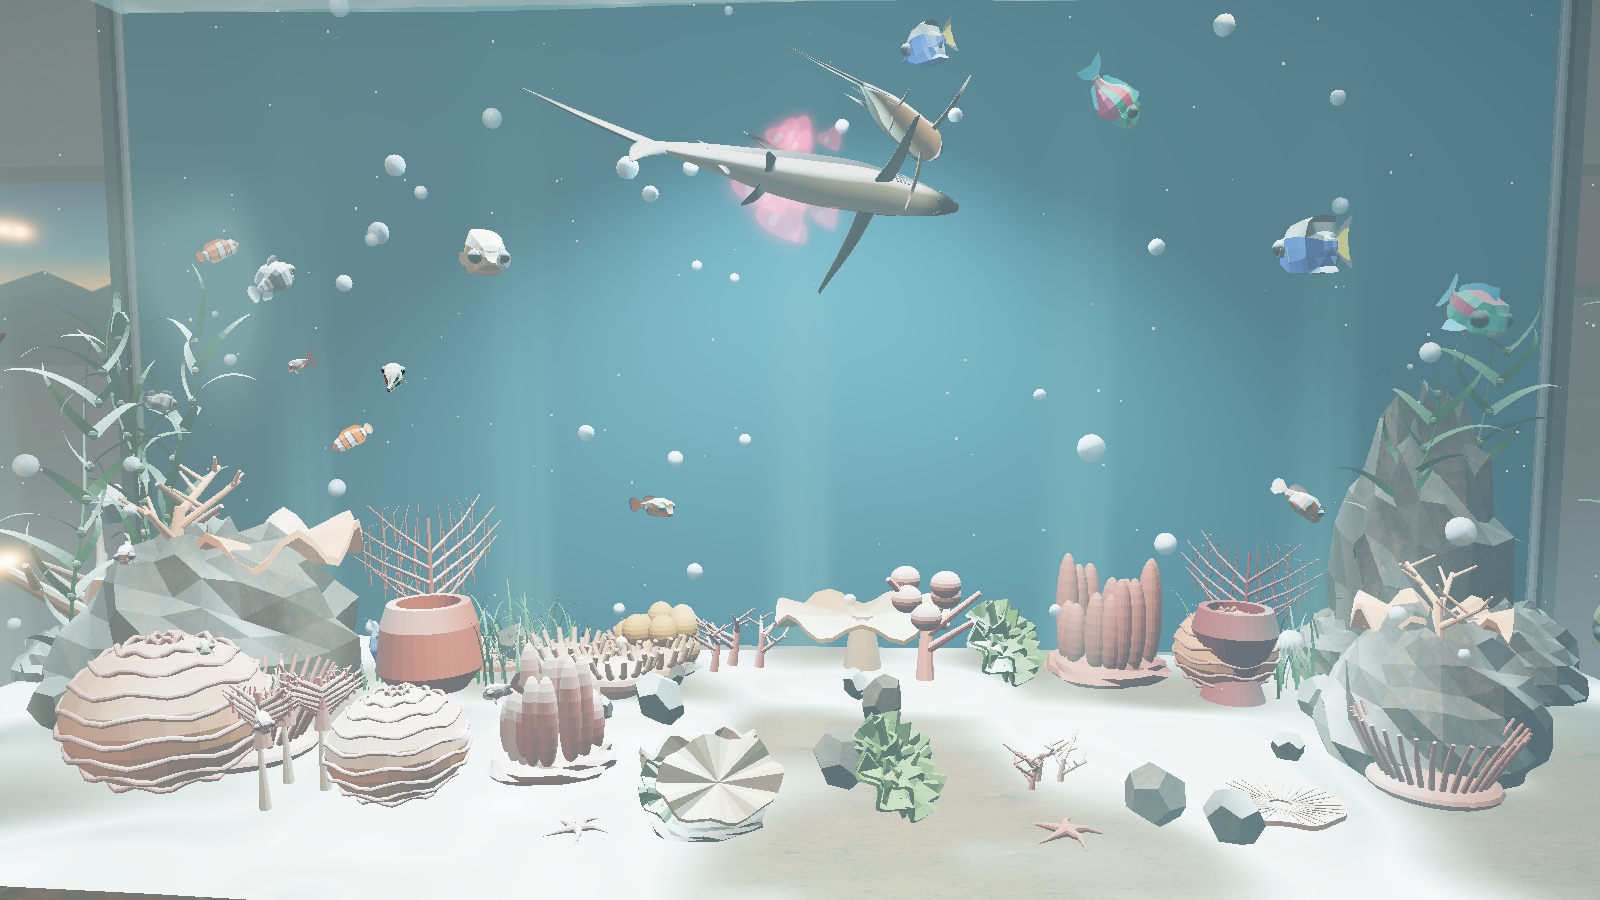
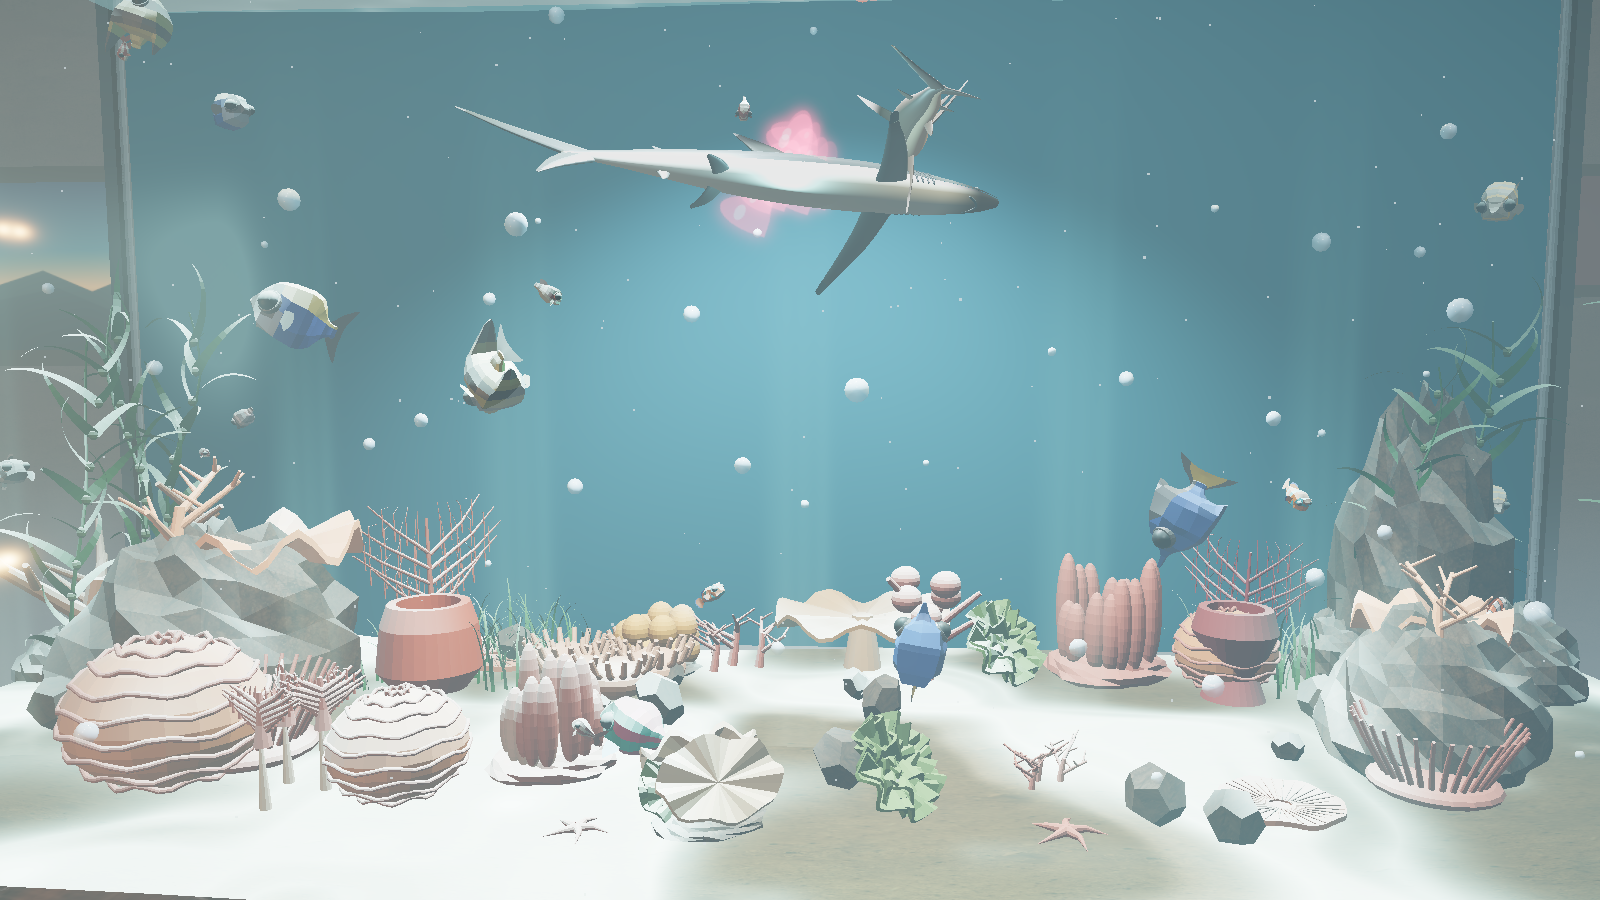
Kum caustic kontrastı ve İnci’nin beyaz yüzgeç uçları güçlendirildi
Kumda caustic damarları çarpan kontrastla daha okunaklı; İnci’de daha
geniş beyaz uç ve koyu bant. Orta/llvmpipe görüntüleri temiz.

diff --git a/js/actors.js b/js/actors.js
@@ -235,8 +235,11 @@ const SHARK_MARKS = `
     smoothstep(0.66, 0.76, vLift) * (1.0 - smoothstep(0.86, 0.95, vLift)) * smoothstep(0.28, 0.48, vAlong) * (1.0 - smoothstep(0.62, 0.84, vAlong))
   ), smoothstep(0.58, 0.72, vSide) * (1.0 - smoothstep(0.80, 0.92, vSide)) * (1.0 - smoothstep(0.58, 0.84, vLift)) * smoothstep(0.18, 0.38, vAlong) * (1.0 - smoothstep(0.52, 0.76, vAlong))), 0.0, 1.0);
   if (uMark > 0.5) {
-    outgoingLight = mix(outgoingLight, outgoingLight * vec3(0.28, 0.24, 0.20), collar * 0.7);
-    outgoingLight = mix(outgoingLight, vec3(0.96, 0.97, 0.94), tip * 0.98);
+    float dTipW = smoothstep(0.70, 0.88, vLift) * smoothstep(0.26, 0.50, vAlong) * (1.0 - smoothstep(0.62, 0.84, vAlong));
+    float tailW = smoothstep(0.76, 0.92, vAlong) * smoothstep(0.12, 0.55, max(vLift, vSide));
+    float tipF = clamp(max(tip, max(dTipW, tailW)), 0.0, 1.0);
+    outgoingLight = mix(outgoingLight, outgoingLight * vec3(0.22, 0.20, 0.16), collar * 0.8);
+    outgoingLight = mix(outgoingLight, vec3(0.97, 0.98, 0.95), tipF * 0.99);
   } else {
     outgoingLight = mix(outgoingLight, vec3(0.01, 0.01, 0.012), tip * 0.97);
   }
@@ -491,10 +494,10 @@ function styleCoralMaterial(m, name, opts, quality) {
     staghorn: 0xb07a52,
     elkhorn: 0xb89860,
     pillar: 0xb07a48,
-    finger: 0xa86a42,
+    finger: 0x9a5e38,
     seafan: 0xa85a42,
     softbush: 0x8a6a38,
-    carnation: 0xc25038,
+    carnation: 0xa84830,
     barrel_sponge: 0xa85a28,
     vase_sponge: 0xb86838,
     anemone: 0xd4a078,

diff --git a/js/world.js b/js/world.js
@@ -395,7 +395,16 @@ export async function createWorld(canvas, quality, manager) {
   root.add(cabinet);
 
   const sand = makeSand(tex, quality);
-  applyUnderwater(sand.material, uniforms, { key: "sand", uniforms: { uCauGain: { value: 1.85 } } });
+  applyUnderwater(sand.material, uniforms, {
+    key: "sand-cau",
+    uniforms: { uCauGain: { value: 1.55 } },
+    fragmentExtra: `
+      float c2 = caustic(vWorldPos.xz * 1.12 + vec2(0.07, -0.04));
+      float vein = smoothstep(0.12, 0.62, c2);
+      outgoingLight *= mix(vec3(0.68, 0.72, 0.66), vec3(1.18, 1.22, 1.12), vein);
+      outgoingLight += vec3(0.45, 0.75, 0.70) * pow(c2, 1.6) * 0.22;
+    `,
+  });
   root.add(sand);
 
   const interior = new THREE.Group();

diff --git a/index.html b/index.html
@@ -138,6 +138,6 @@
       </form>
     </div>
   </div>
-  <script type="module" src="js/main.js?v=20261121y"></script>
+  <script type="module" src="js/main.js?v=20261121z"></script>
 </body>
 </html>
